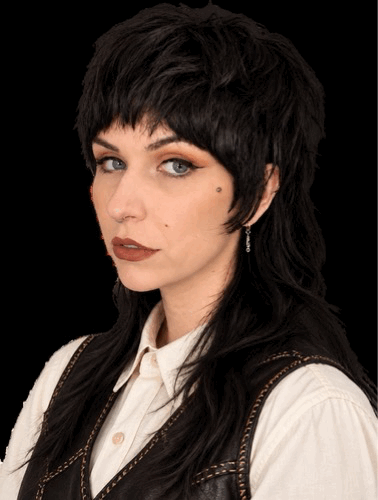
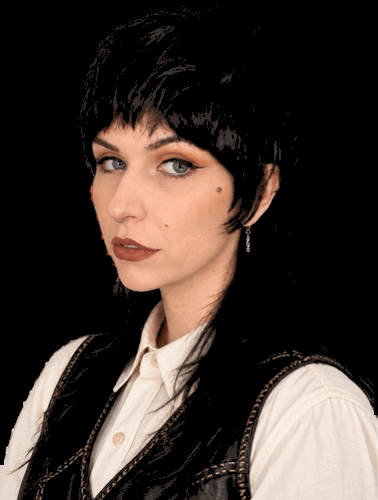
Animate portrait once on load then freeze, clean background edge artifacts, and add contact page

diff --git a/index.html b/index.html
@@ -8,8 +8,7 @@
   <link rel="preconnect" href="https://fonts.googleapis.com">
   <link rel="preconnect" href="https://fonts.gstatic.com" crossorigin>
   <link href="https://fonts.googleapis.com/css2?family=IBM+Plex+Sans:wght@400;500&family=UnifrakturMaguntia&display=swap" rel="stylesheet">
-  <link rel="preload" as="image" href="assets/eryn-portrait-still.png" fetchpriority="high">
-  <link rel="preload" as="image" href="assets/eryn-portrait-anim.gif">
+  <link rel="preload" as="image" href="assets/eryn-portrait-anim.gif" fetchpriority="high">
   <link rel="preload" as="image" href="assets/portrait-frame-inner.png">
   <link rel="preload" as="image" href="assets/portrait-frame-black.png">
   <link rel="stylesheet" href="style.css">
@@ -20,7 +19,7 @@
     <a href="film.html">Film</a>
     <a href="#unlikely-archivist">Unlikely Archivist</a>
     <a href="#art">Art</a>
-    <a href="mailto:montgomery.k.eryn@gmail.com">Contact</a>
+    <a href="contact.html">Contact</a>
   </nav>
 
   <section class="intro">
@@ -44,39 +43,25 @@
     </div>
     <div class="portrait">
       <div class="clip">
-        <img class="portrait-img" src="assets/eryn-portrait-still.png" alt="Eryn Montgomery" width="378" height="500" fetchpriority="high">
+        <img class="portrait-img" src="assets/eryn-portrait-anim.gif" alt="Eryn Montgomery" width="378" height="500" fetchpriority="high">
       </div>
       <div class="frame"></div>
     </div>
   </section>
 
   <script>
-    // Portrait laughs on hover (mouse) or tap (touch); stays still for people who prefer reduced motion.
-    const portrait = document.querySelector('.portrait');
-    const img = portrait.querySelector('.portrait-img');
-    const stillSrc = 'assets/eryn-portrait-still.png';
-    const animSrc = 'assets/eryn-portrait-anim.gif';
+    // Animates once on page load and freezes; stays static for prefers-reduced-motion.
+    const portraitImg = document.querySelector('.portrait-img');
     const reduceMotion = matchMedia('(prefers-reduced-motion: reduce)');
-
-    // Preload animated gif into memory
-    const gifCache = new Image();
-    gifCache.src = animSrc;
-
-    let active = false;
-    const play = () => {
-      if (reduceMotion.matches || active) return;
-      active = true;
-      img.src = animSrc + '?t=' + Date.now();
-    };
-    const stop = () => {
-      if (!active) return;
-      active = false;
-      img.src = stillSrc;
-    };
-
-    portrait.addEventListener('pointerenter', (e) => { if (e.pointerType === 'mouse') play(); });
-    portrait.addEventListener('pointerleave', (e) => { if (e.pointerType === 'mouse') stop(); });
-    portrait.addEventListener('pointerup', (e) => { if (e.pointerType !== 'mouse') active ? stop() : play(); });
+    if (reduceMotion.matches) {
+      portraitImg.src = 'assets/eryn-portrait-still.png';
+    } else {
+      // GIF is encoded to loop=1 (stops on last frame after ~4.87s).
+      // Freeze explicitly on the final frame image when the animation completes.
+      setTimeout(() => {
+        portraitImg.src = 'assets/eryn-portrait-end.png';
+      }, 4900);
+    }
 
     // Place the credits card just under the film link, wherever the line wraps.
     const filmLink = document.querySelector('.film-link');

diff --git a/contact.html b/contact.html
@@ -1,0 +1,50 @@
+<!DOCTYPE html>
+<html lang="en">
+<head>
+  <meta charset="UTF-8">
+  <meta name="viewport" content="width=device-width, initial-scale=1.0">
+  <title>Contact · Eryn Montgomery</title>
+  <link rel="icon" href="assets/favicon.png">
+  <link rel="preconnect" href="https://fonts.googleapis.com">
+  <link rel="preconnect" href="https://fonts.gstatic.com" crossorigin>
+  <link href="https://fonts.googleapis.com/css2?family=IBM+Plex+Sans:wght@400;500&family=UnifrakturMaguntia&display=swap" rel="stylesheet">
+  <link rel="stylesheet" href="style.css">
+</head>
+<body>
+  <nav class="topnav" aria-label="Sections">
+    <a class="home" href="index.html">Eryn Montgomery</a>
+    <a href="film.html">Film</a>
+    <a href="index.html#unlikely-archivist">Unlikely Archivist</a>
+    <a href="index.html#art">Art</a>
+    <a href="contact.html" aria-current="page">Contact</a>
+  </nav>
+
+  <main class="page contact-page">
+    <h1>Let’s talk.</h1>
+    <p class="contact-intro">Have a project, opportunity, or idea in mind? Send me a note.</p>
+
+    <form class="contact-form" action="https://formsubmit.co/montgomery.k.eryn@gmail.com" method="POST">
+      <input type="hidden" name="_subject" value="New message from erynmontgomery.com">
+      <input type="hidden" name="_captcha" value="false">
+      <input class="form-honeypot" type="text" name="_honey" tabindex="-1" autocomplete="off" aria-hidden="true">
+
+      <div class="form-field">
+        <label for="name">Name</label>
+        <input id="name" name="name" type="text" autocomplete="name" required>
+      </div>
+
+      <div class="form-field">
+        <label for="email">Email</label>
+        <input id="email" name="email" type="email" autocomplete="email" required>
+      </div>
+
+      <div class="form-field form-field-wide">
+        <label for="message">Message</label>
+        <textarea id="message" name="message" rows="7" required></textarea>
+      </div>
+
+      <button type="submit">Send message</button>
+    </form>
+  </main>
+</body>
+</html>

diff --git a/style.css b/style.css
@@ -163,5 +163,75 @@ body {
   object-fit: contain;
 }
 
+/* ---------- contact page ---------- */
+.contact-page {
+  min-height: calc(100vh - 4rem);
+  box-sizing: border-box;
+  display: flex;
+  flex-direction: column;
+  justify-content: center;
+  align-items: flex-start;
+  padding-bottom: 8rem;
+}
+.contact-intro {
+  max-width: 32rem;
+  margin: 1rem 0 2.25rem;
+  color: #555;
+  font-size: clamp(1.05rem, 2vw, 1.25rem);
+  line-height: 1.55;
+}
+.contact-form {
+  display: grid;
+  grid-template-columns: repeat(2, minmax(0, 1fr));
+  gap: 1.25rem;
+  width: min(100%, 42rem);
+}
+.form-field { display: flex; flex-direction: column; gap: 0.45rem; }
+.form-field-wide { grid-column: 1 / -1; }
+.form-field label { font-size: 0.85rem; font-weight: 500; }
+.form-field input,
+.form-field textarea {
+  box-sizing: border-box;
+  width: 100%;
+  border: 1px solid #aaa;
+  border-radius: 0;
+  padding: 0.8rem;
+  background: #fff;
+  color: #111;
+  font: inherit;
+}
+.form-field textarea { resize: vertical; min-height: 10rem; }
+.form-field input:focus,
+.form-field textarea:focus {
+  outline: 2px solid #9b1c1c;
+  outline-offset: 2px;
+  border-color: #9b1c1c;
+}
+.contact-form button {
+  justify-self: start;
+  border: 0;
+  padding: 0.8rem 1.15rem;
+  background: #9b1c1c;
+  color: #fff;
+  font: 500 1rem "IBM Plex Sans", sans-serif;
+  cursor: pointer;
+}
+.contact-form button:hover { background: #741515; }
+.contact-form button:focus-visible { outline: 2px solid #111; outline-offset: 3px; }
+.form-honeypot { position: absolute; left: -10000px; }
 
+@media (max-width: 34rem) {
+  .contact-form { grid-template-columns: 1fr; }
+  .form-field-wide { grid-column: auto; }
+}
+
+.contact-email {
+  color: #111;
+  font-size: clamp(1.1rem, 4vw, 2rem);
+  font-weight: 500;
+  text-decoration-color: #9b1c1c;
+  text-decoration-thickness: 2px;
+  text-underline-offset: 0.3em;
+  overflow-wrap: anywhere;
+}
 

diff --git a/film.html b/film.html
@@ -16,7 +16,7 @@
     <a href="film.html" aria-current="page">Film</a>
     <a href="index.html#unlikely-archivist">Unlikely Archivist</a>
     <a href="index.html#art">Art</a>
-    <a href="mailto:montgomery.k.eryn@gmail.com">Contact</a>
+    <a href="contact.html">Contact</a>
   </nav>
 
   <main class="page">
